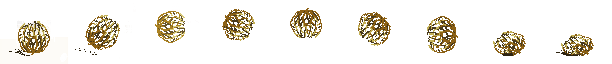
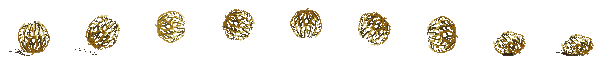
First attempt at adding animated tumbleweed

diff --git a/game/Road.js b/game/Road.js
@@ -1,135 +1,183 @@
 
-function Road(){
-    this.src = null;
-    this.cacti = [];
-    this.cracks = [];
+// ///////////////////////////////////////
+// // ROAD                              //
+// // Rolling road and graphics for it  //
+// ///////////////////////////////////////
 
-    this.has_populated_initial = false;
-    this.pos = 0;
-
-    // Measurement and calculation data for each set of graphics
-    this.decor_data = [
-        {   // Cacti top
-            graphics: [],
-            last: 100,
-            freq: (game.w/ 4), // average of 12 across width of screen at any time
-            y_base: 105,
-            y_variance: 50,
-            x_variance: 200
-        },
-        {   // Cacti bottom
-            graphics: [],
-            last: 0,
-            freq: (game.w/ 4),
-            y_base: 550,
-            y_variance: 70,
-            x_variance: 200
-        },
-        {   // Road cracks
-            graphics: [],
-            last: 0,
-            freq: (game.w/ 3),
-            y_base: [239,322,425,521], // this variable can be an integer or array
-            y_variance: 0,
-            x_variance: 200
-        },
-        {   // Tumbleweed
-            // TODO: Fix display of this tumbleweed (hidden for now)
-            graphics: [],
-            last: 0,
-            freq: (game.w/ 5),
-            y_base: 900, // this variable can be an integer or array
-            y_variance: 0,
-            x_variance: 200
-        }
-    ]
-
-
-    this.cacti_y = [100,590];
-    this.last_cacti = [0,0];
-
-    this.cacti_freq = (game.w / 12);
-    this.crack_freq = (game.w / 6);
-
-    this.last_crack = 0;
-
-    this.decors = [];
-}
-
-Road.prototype.render = function(){
-    // Draw road, and one road behind
-    ctx.drawImage(this.src,this.pos,0);
-    ctx.drawImage(this.src,this.pos+this.src.width,0);
+class Road{
+    constructor(){
+        this.src = null;
+        this.cacti = [];
+        this.cracks = [];
     
-    // Update graphics
-    for (var i = 0; i < this.decors.length; i++) {
-        this.decors[i].render();
+        this.has_populated_initial = false;
+        this.pos = 0;
+    
+        // Measurement and calculation data for each set of graphics
+        this.decor_data = [
+            {   // Cacti top
+                graphics: [],
+                ani: false,
+                speed: 1,
+                last: 100,
+                freq: (game.w/ 4), // average of 12 across width of screen at any time
+                y_base: 105,
+                y_variance: 50,
+                x_variance: 200
+            },
+            {   // Cacti bottom
+                graphics: [],
+                ani: false,
+                speed: 1,
+                last: 0,
+                freq: (game.w/ 4),
+                y_base: 550,
+                y_variance: 70,
+                x_variance: 200
+            },
+            {   // Road cracks
+                graphics: [],
+                ani: false,
+                speed: 1,
+                last: 0,
+                freq: (game.w/ 3),
+                y_base: [239,322,425,521], // this variable can be an integer or array
+                y_variance: 0,
+                x_variance: 200
+            },
+            {   // Tumbleweed
+                // TODO: Fix display of this tumbleweed (hidden for now)
+                graphics: [],
+                ani: true,
+                speed: 0.7,
+                last: 1000,
+                freq: game.w/0.5,
+                y_base: [130,550], // this variable can be an integer or array
+                y_variance: 25,
+                x_variance: 200
+            }
+        ]
+    
+    
+        this.cacti_y = [100,590];
+        this.last_cacti = [0,0];
+    
+        this.cacti_freq = (game.w / 12);
+        this.crack_freq = (game.w / 6);
+    
+        this.last_crack = 0;
+    
+        this.decors = []; 
     }
-}
 
-Road.prototype.update = function(modifier, distance){
-
-    // Initial fill for terrain
-    if(!this.has_populated_initial){
+    render(elapsed){
+        // Draw road, and one road behind
+        ctx.drawImage(this.src,this.pos,0);
+        ctx.drawImage(this.src,this.pos+this.src.width,0);
+        
+        // Update graphics
+        for (var i = 0; i < this.decors.length; i++) {
+            this.decors[i].render(elapsed);
+        }
+    }
+    
+    update(modifier, distance){
+    
+        // Initial fill for terrain
+        if(!this.has_populated_initial){
+            for (var i=0; i < this.decor_data.length; i++){
+                var category = this.decor_data[i];
+    
+                for(var j=0; j <= game.w;){
+                    var new_d = this._generate_decor(category,j-game.w,category.ani,category.speed);
+                    this.decors.push(new_d);
+                    j = new_d.getStart() + category.freq;
+                }
+            }
+            this.has_populated_initial = true;
+        }
+    
+        // Advance position of road
+        this.pos = -distance%this.src.width;
+    
+        // Add decor
         for (var i=0; i < this.decor_data.length; i++){
             var category = this.decor_data[i];
-
-            for(var j=0; j <= game.w;){
-                var new_d = generate_decor(category,j-game.w);
-                this.decors.push(new_d);
-                j = new_d.start + category.freq;
+            if(distance > (category.last + category.freq)){
+                this.decors.push(this._generate_decor(category,distance,category.ani,category.speed));
+                category.last = distance;
             }
         }
-        this.has_populated_initial = true;
-    }
-
-    // Advance position of road
-    this.pos = -distance%this.src.width;
-
-    // Add decor
-    for (var i=0; i < this.decor_data.length; i++){
-        var category = this.decor_data[i];
-        if(distance > (category.last + category.freq)){
-            this.decors.push(generate_decor(category,distance));
-            category.last = distance;
+    
+        // Update decors
+        for (var i = 0; i < this.decors.length; i++) {
+            var d = this.decors[i];
+    
+            // Set distance for decor
+            d.setPos((d.getStart() - distance)*d.getSpeed());
+    
+            // Remove old decor
+            if(d.getPos() < -d.getWidth()){
+                this.decors.splice(i,1);
+            }
         }
     }
 
-    // Update decors
-    for (var i = 0; i < this.decors.length; i++) {
-        var d = this.decors[i];
+    // Helper to return a new generated decor just off-screen based on the given distance
+    _generate_decor(data,distance,is_ani=false, speed=1){
+        var x_pos = distance+rand_int(data.x_variance)+game.w;
+        if(data.y_base.constructor === Array){
+            var y_pos = data.y_base[rand_int(data.y_base.length)]+rand_int(data.y_variance);
+        }else{
+            var y_pos = data.y_base+rand_int(data.y_variance);
+        }
+        return new Decor(data.graphics[rand_int(data.graphics.length)], x_pos, y_pos, is_ani, speed);
+    }
 
-        // Set distance for decor
-        d.pos = d.start - distance;
+}
 
-        // Remove old decor
-        if(d.pos < -d.src.width){
-            this.decors.splice(i,1);
+
+
+class Decor{
+    constructor(src, start, y, is_ani, speed=1){
+
+        this._is_ani = is_ani;
+
+        if(this._is_ani){
+            this._src = new Sprite(src,9,9,1,100);
+        }else{
+            this._src = src;
+        }
+        this._y = y;
+        this._speed = speed;
+    
+        this._start = start;
+        this._pos = 0;
+    }
+
+    // Getters
+    getWidth(){
+        return this._src.width;
+    }
+    getStart(){
+        return this._start;
+    }
+    getSpeed(){
+        return this._speed;
+    }
+    getPos(){
+        return this._pos;
+    }
+    setPos(new_pos){
+        this._pos = new_pos 
+    }
+
+    // Render
+    render(elapsed){
+        if(this._is_ani){
+            this._src.draw(elapsed,this._pos,this._y);
+        }else{
+            ctx.drawImage(this._src,this._pos,this._y);
         }
     }
-}
-
-
-// A cactus, crack or other piece of street furniture
-function Decor(src, start, y){
-    this.src = src;
-    this.start = start;
-    this.y = y;
-
-    this.pos = 0;
-}
-
-Decor.prototype.render = function(){
-    ctx.drawImage(this.src,this.pos,this.y);
-}
-
-// Helper to return a new generated decor just off-screen based on the given distance
-function generate_decor(data,distance){
-    var x_pos = distance+rand_int(data.x_variance)+game.w;
-    if(data.y_base.constructor === Array){
-        var y_pos = data.y_base[rand_int(data.y_base.length)]+rand_int(data.y_variance);
-    }else{
-        var y_pos = data.y_base+rand_int(data.y_variance);
-    }
-    return new Decor(data.graphics[rand_int(data.graphics.length)],x_pos,y_pos);
 }

diff --git a/game/-game.js b/game/-game.js
@@ -228,7 +228,7 @@ var update = function (modifier) {
 // /////////////////////////////////
 var render = function (modifier, elapsed) {
 
-    ROAD.render();
+    ROAD.render(elapsed);
 
     CUSTOMERS.render_below(TRUCK.getLane(), elapsed);
     TRUCK.render(modifier, elapsed);
@@ -288,7 +288,7 @@ var start_game = function () {
     document.getElementById("intro").style.display = "none";
     document.getElementById("keys").style.display = "none";
 
-    bg_music.volume = 0.5;
+    bg_music.volume = 0; //0.5;
     bg_music.playbackRate = 1.0;
     bg_music.loop = true;
     bg_music.play();
